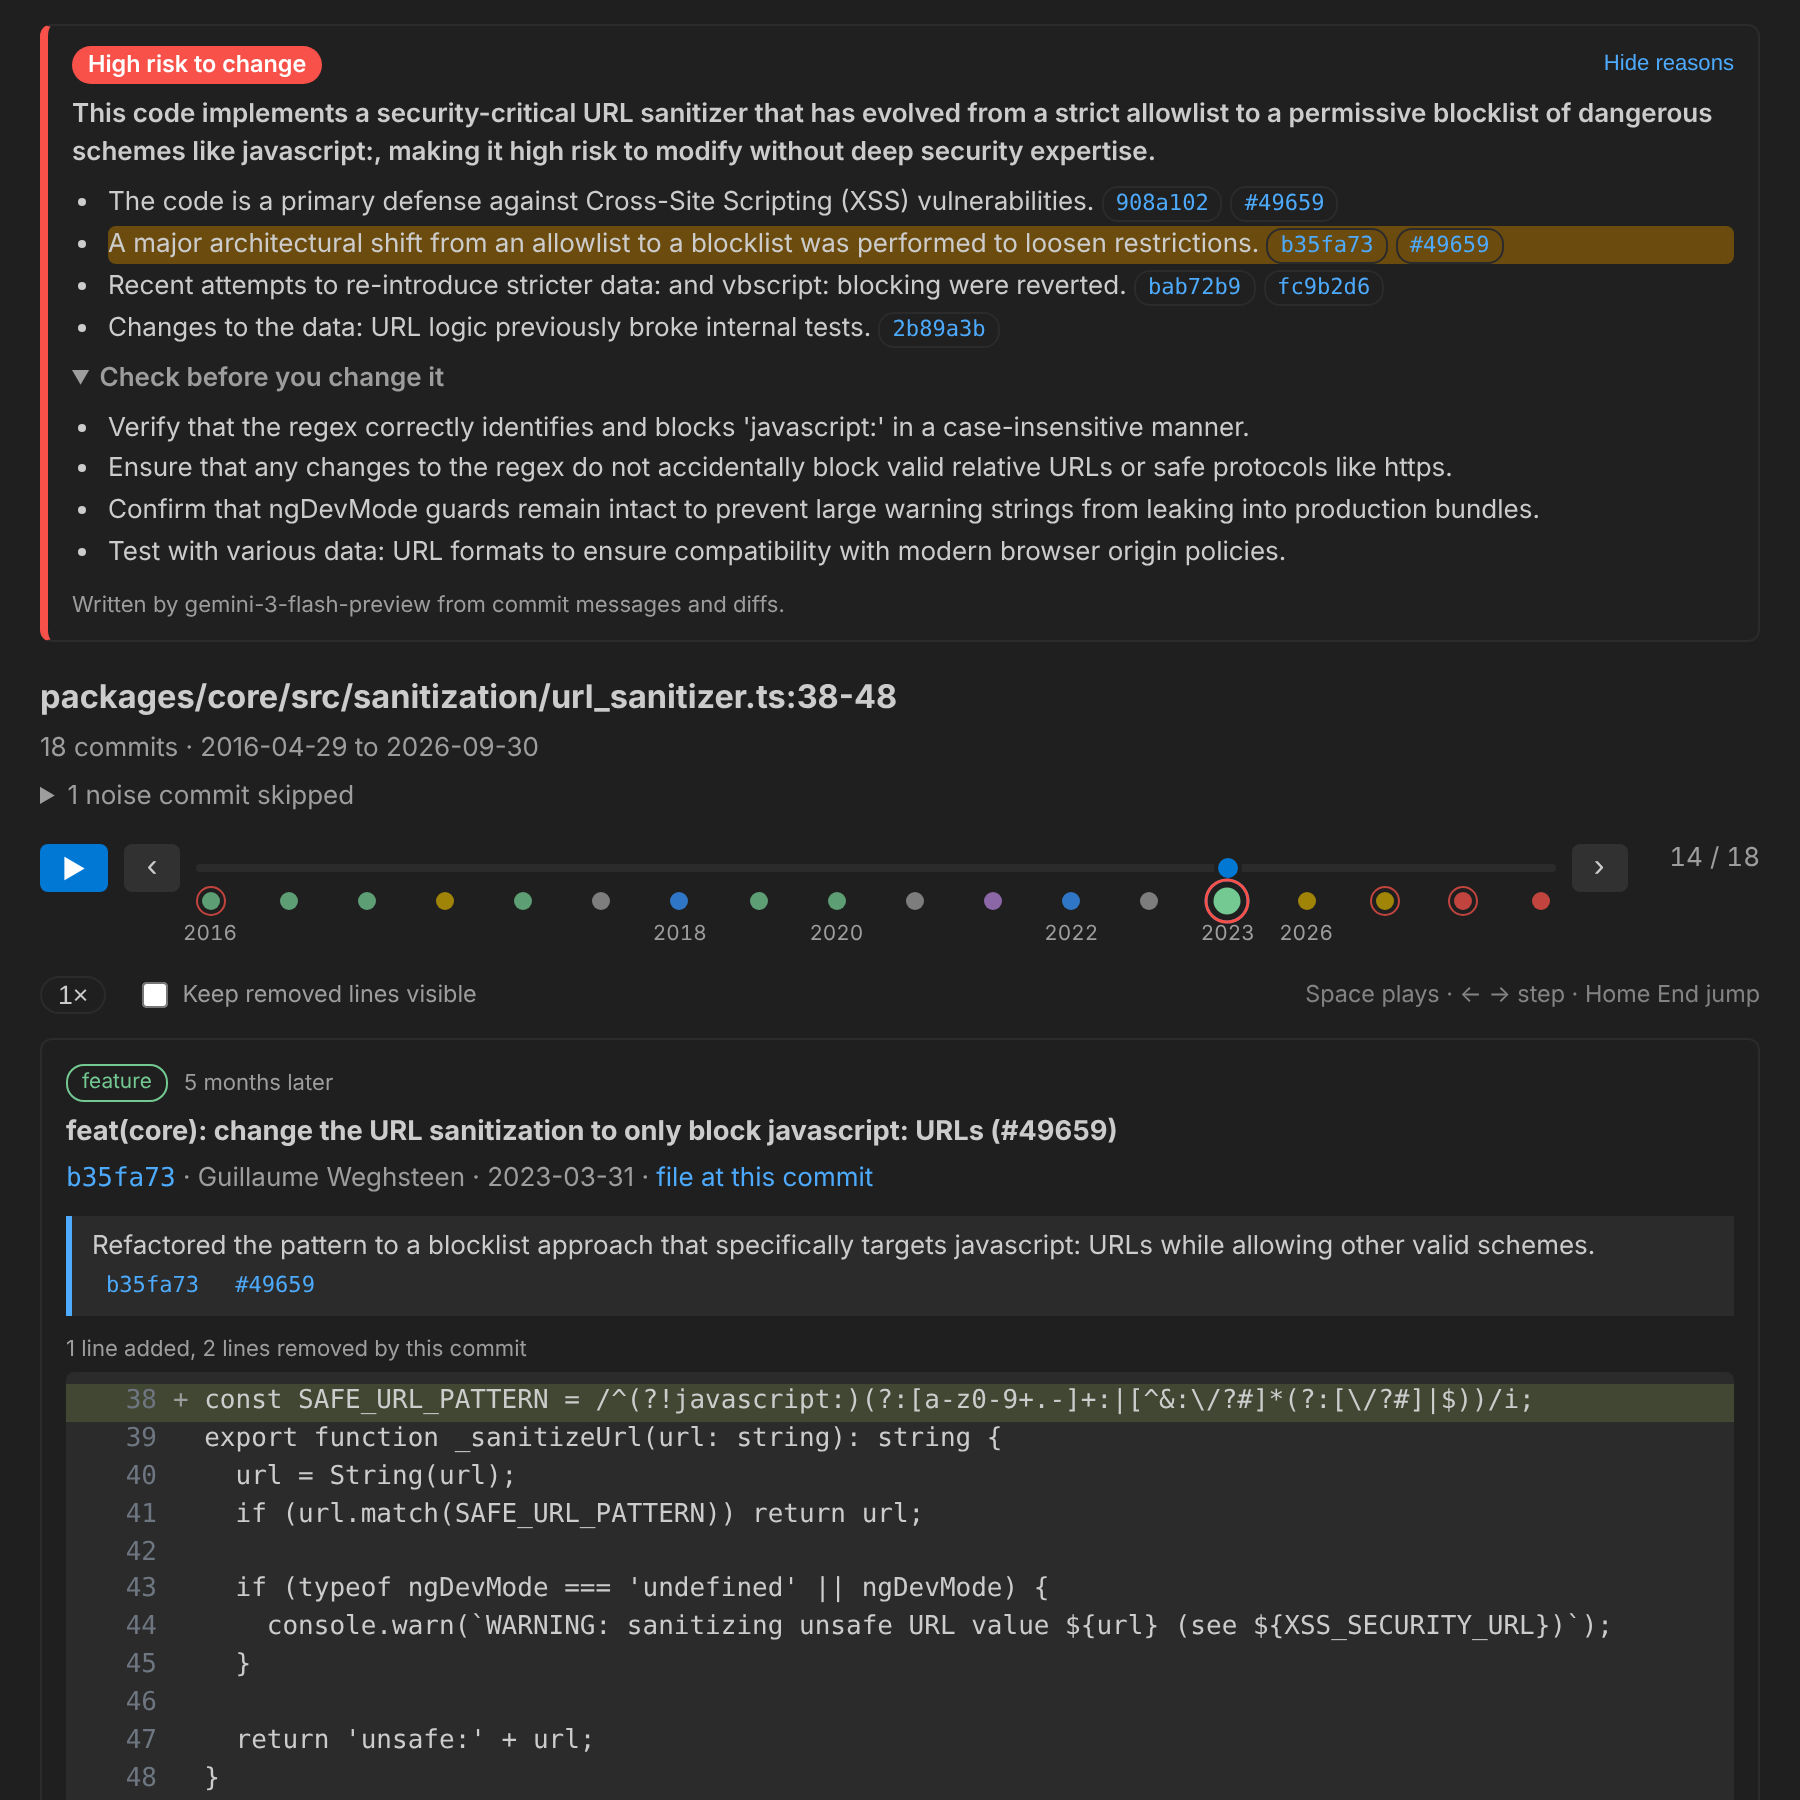
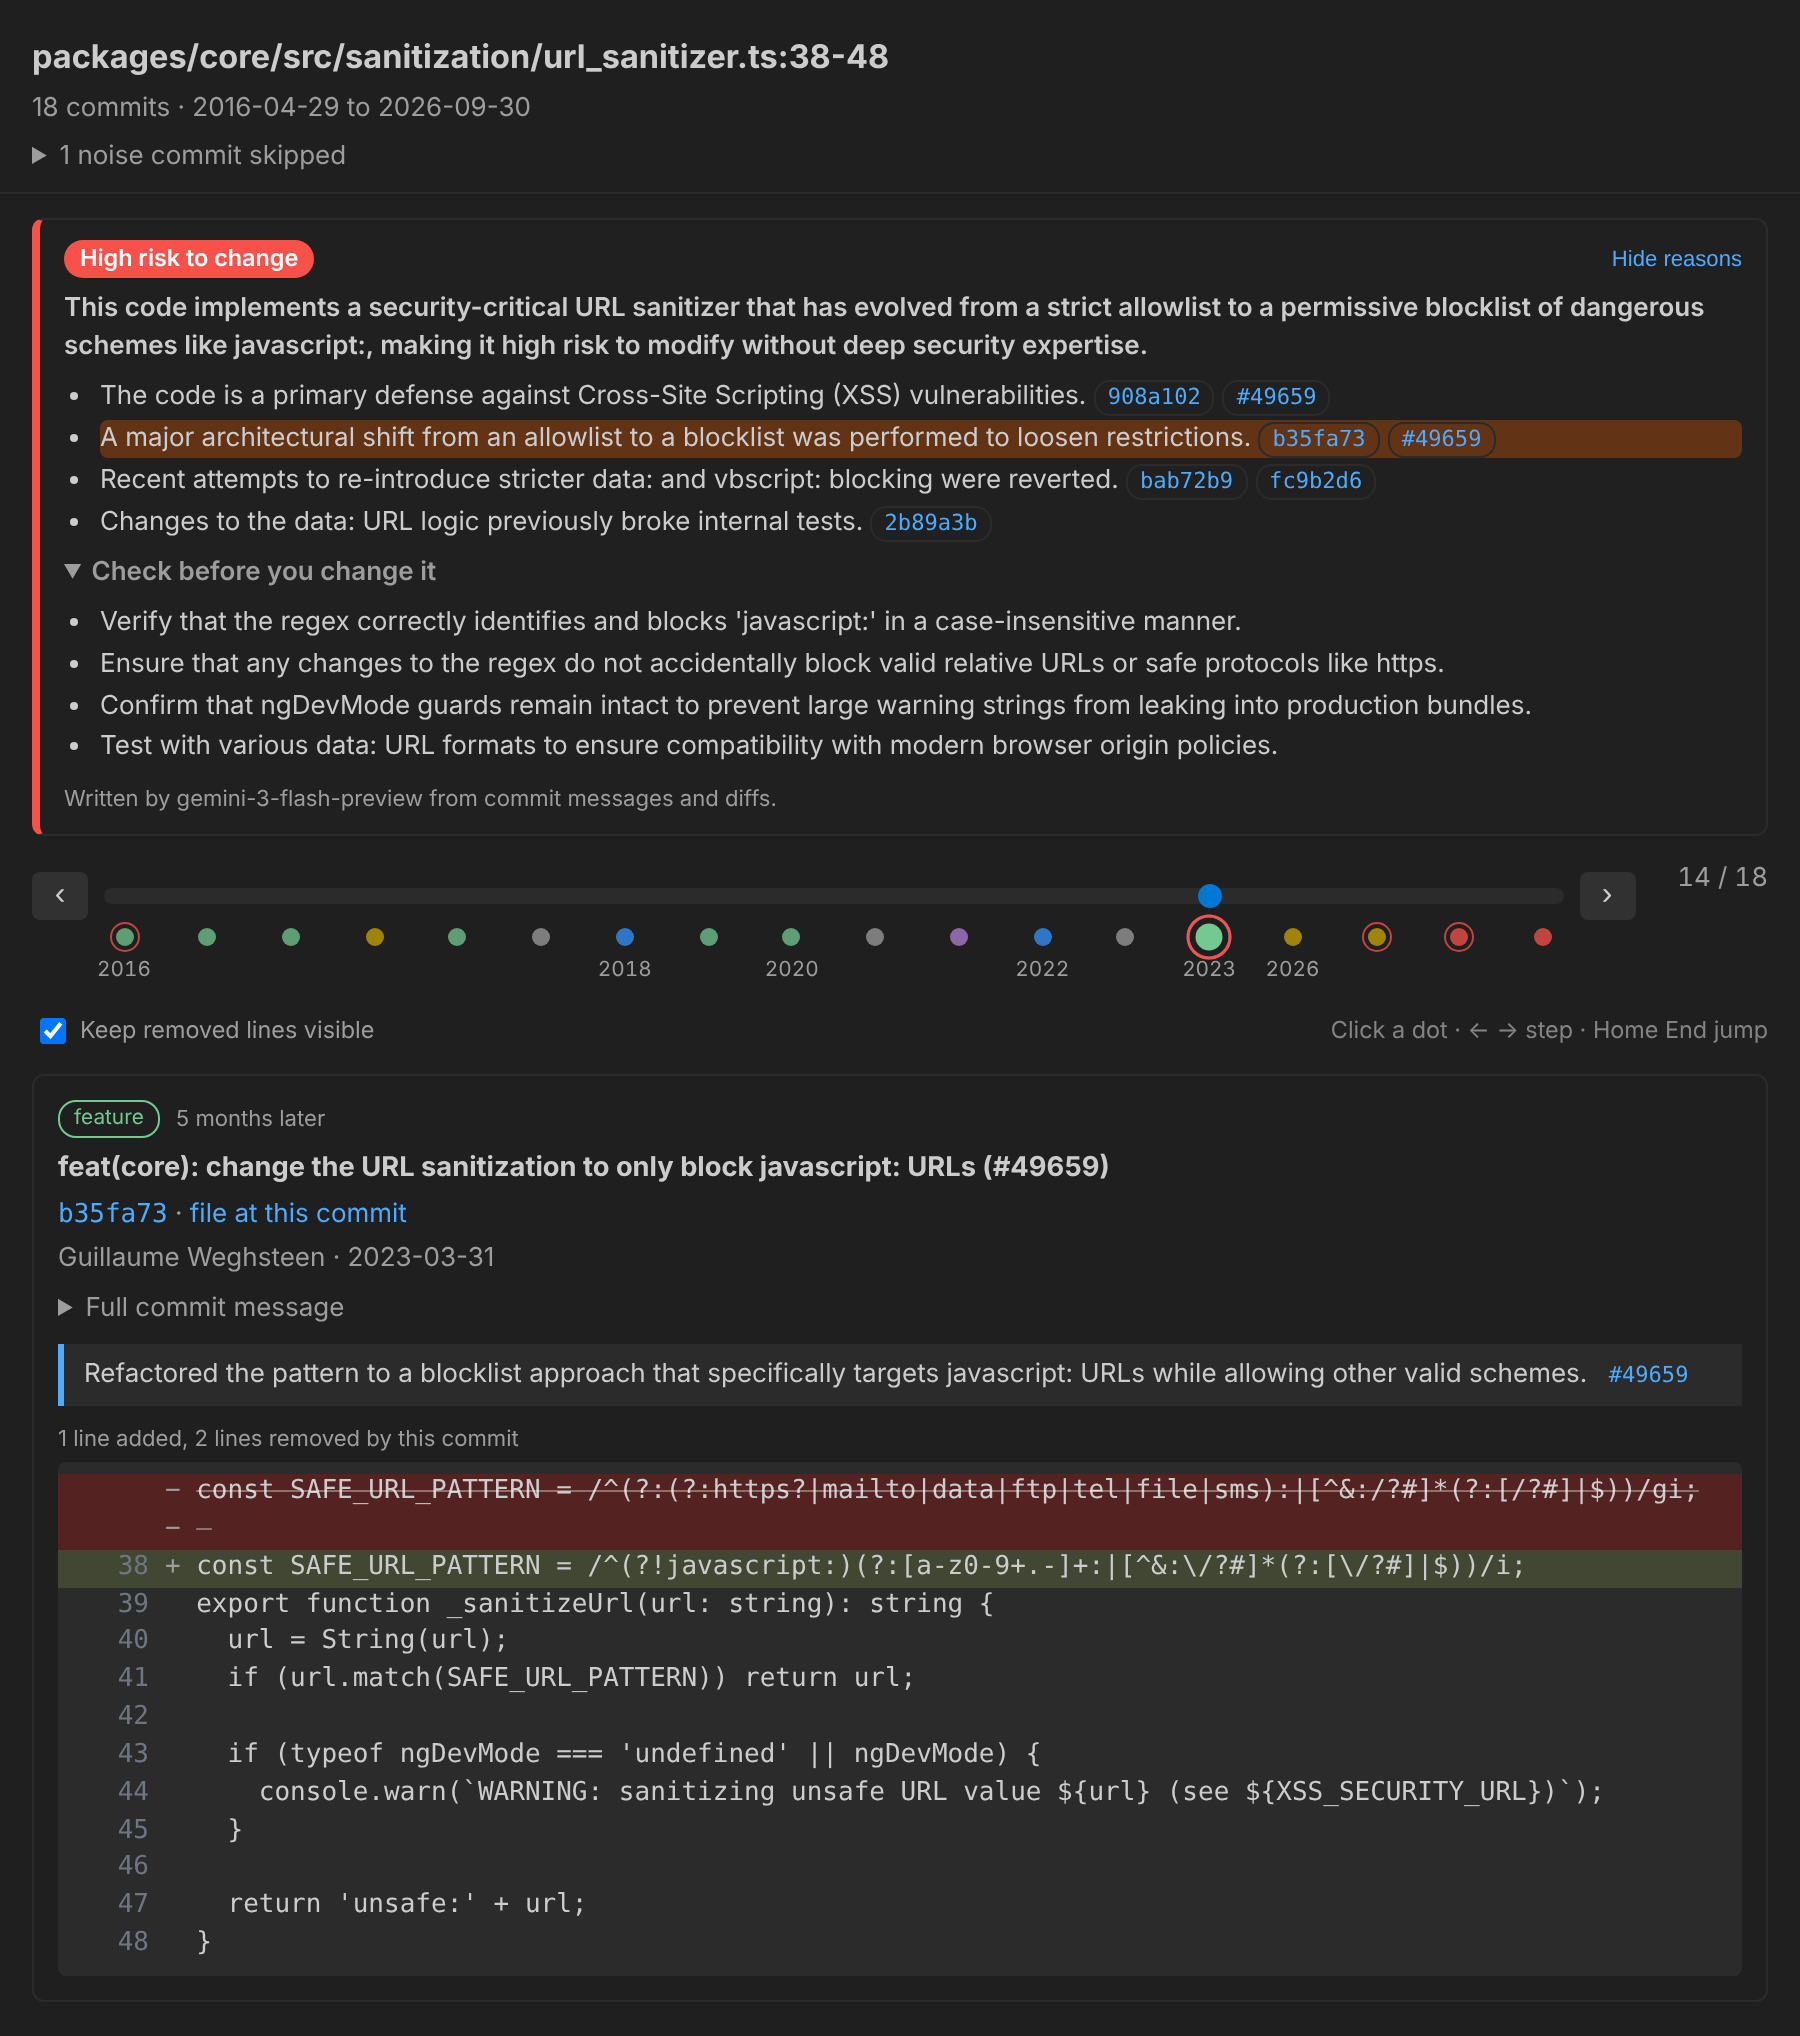
README: retake the panel and settings screenshots
Same Angular url_sanitizer.ts trace and story as before, rendered with the
current panel (pinned header, no play button, links line, removed lines shown)
and settings screen (presets, extra request headers, legacy GitLab token hint).
Captions describe what changed.

Claude-Session: https://claude.ai/code/session_01VH5155aFbFU1M4Nhni3sJ1

diff --git a/README.md b/README.md
@@ -21,16 +21,18 @@ cited "safe to change?" verdict near the top.
 ## Screenshots
 
 The panel on Angular's URL sanitizer (`url_sanitizer.ts` lines 38-48, the [demo snippet](#demo-snippet)),
-stepped back to the 2023 commit that switched it to blocking only `javascript:` URLs. The verdict
-reason that cites this commit is highlighted. This run had no GitHub token, so the story is written
-from commit messages and diffs alone.
+stepped back to the 2023 commit that switched it to blocking only `javascript:` URLs. The file and
+commit count stay pinned at the top, the verdict reason that cites this commit is highlighted, and
+removed lines stay visible in the diff. This run had no GitHub token, so the story is written from
+commit messages and diffs alone; with one, the commit's pull request sits on the links line next
+to the commit, and every PR behind these commits is listed under the header.
 
-![The Code Archaeologist panel: a high-risk verdict with cited reasons, the commit timeline, and the 2023 commit's note and code](docs/panel.png)
+![The Code Archaeologist panel: pinned file header, a high-risk verdict with cited reasons, the commit timeline, and the 2023 commit's links, note and code](docs/panel.png)
 
 The settings screen (**Code Archaeologist: Open settings screen**), with the default Gemini provider and a
-saved key and GitHub token. Keys and tokens are never shown.
+saved key and GitHub token. Keys, tokens and extra headers are never shown.
 
-![The Code Archaeologist settings screen: AI model, GitHub and GitLab sections](docs/settings.png)
+![The Code Archaeologist settings screen: quick setup presets, AI model, extra request headers, GitHub and GitLab sections](docs/settings.png)
 
 ## Install
 
